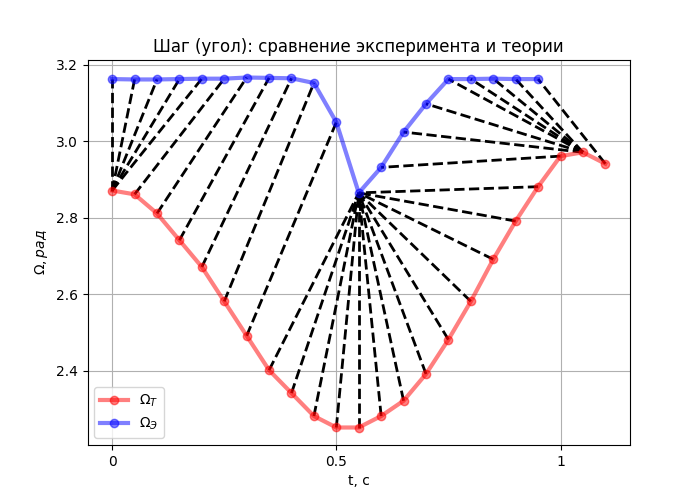
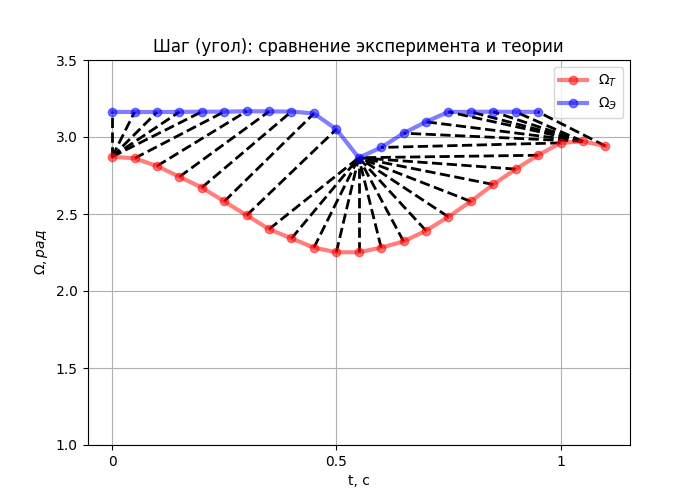
new limits in angle plot

diff --git a/programs/angles_moments_walk/dtw_join.py b/programs/angles_moments_walk/dtw_join.py
@@ -140,7 +140,7 @@ finally:
 
 
 def dtw_pic(array1, array2, filename='dtw_u1_m12.png', ylabel='moment+angle',
-            legend=[r'$M_{12}$', r'$\Omega_1 R_{1y}$'], title="Момент в коленном суставе, реакция и разность углов"):
+            legend=[r'$M_{12}$', r'$\Omega_1 R_{1y}$'], title="Момент в коленном суставе, реакция и разность углов", ylim=None):
     fig, ax = plt.subplots(figsize=(7, 5))
     # ???
     # array1 = norm_list(array1)
@@ -148,7 +148,12 @@ def dtw_pic(array1, array2, filename='dtw_u1_m12.png', ylabel='moment+angle',
     plt.xlabel("t, с")
     plt.ylabel(ylabel)
     plt.grid()
+    if ylim is not None:
+        plt.ylim(ylim)
+    #t1 = np.linspace(0, 22, np.shape(array1)[0])
+    #t2 = np.linspace(0, 22, np.shape(array2)[0])
     array1 = np.reshape(np.array(array1), (len(array1), 1))
+    #array2 = [i*1.1/0.95 for i in array2]
     array2 = np.reshape(np.array(array2), (len(array2), 1))
     dtw_distance, warp_path = fastdtw(array1, array2, dist=euclidean)
     for [map_x, map_y] in warp_path:
@@ -264,10 +269,11 @@ dtw_pic(norm_list(est1), norm_list(est3), title="Энергетические о
 
 a, b, c = exp_preparations()
 b = np.radians(b)
-c = [i * 5 for i in c]
+#b = [i*1.1/0.95  for i in b]
+c = [i * 5  for i in c]
 dtw_pic(Omega1, b, title="Шаг (угол): сравнение эксперимента и теории", filename="dtw_angles.png",
         ylabel=r"$\Omega, рад$",
-        legend=[r"$\Omega_Т$", r"$\Omega_Э$"])
+        legend=[r"$\Omega_Т$", r"$\Omega_Э$"], ylim=(1, 3.5))
 dtw_pic(R1y, c, title="Шаг (сила реакции): сравнение эксперимента и теории", filename="dtw_forces.png",
         ylabel=r"$R_{1y}, H$",
         legend=[r"$R_Т$", r"$R_Э$"])
